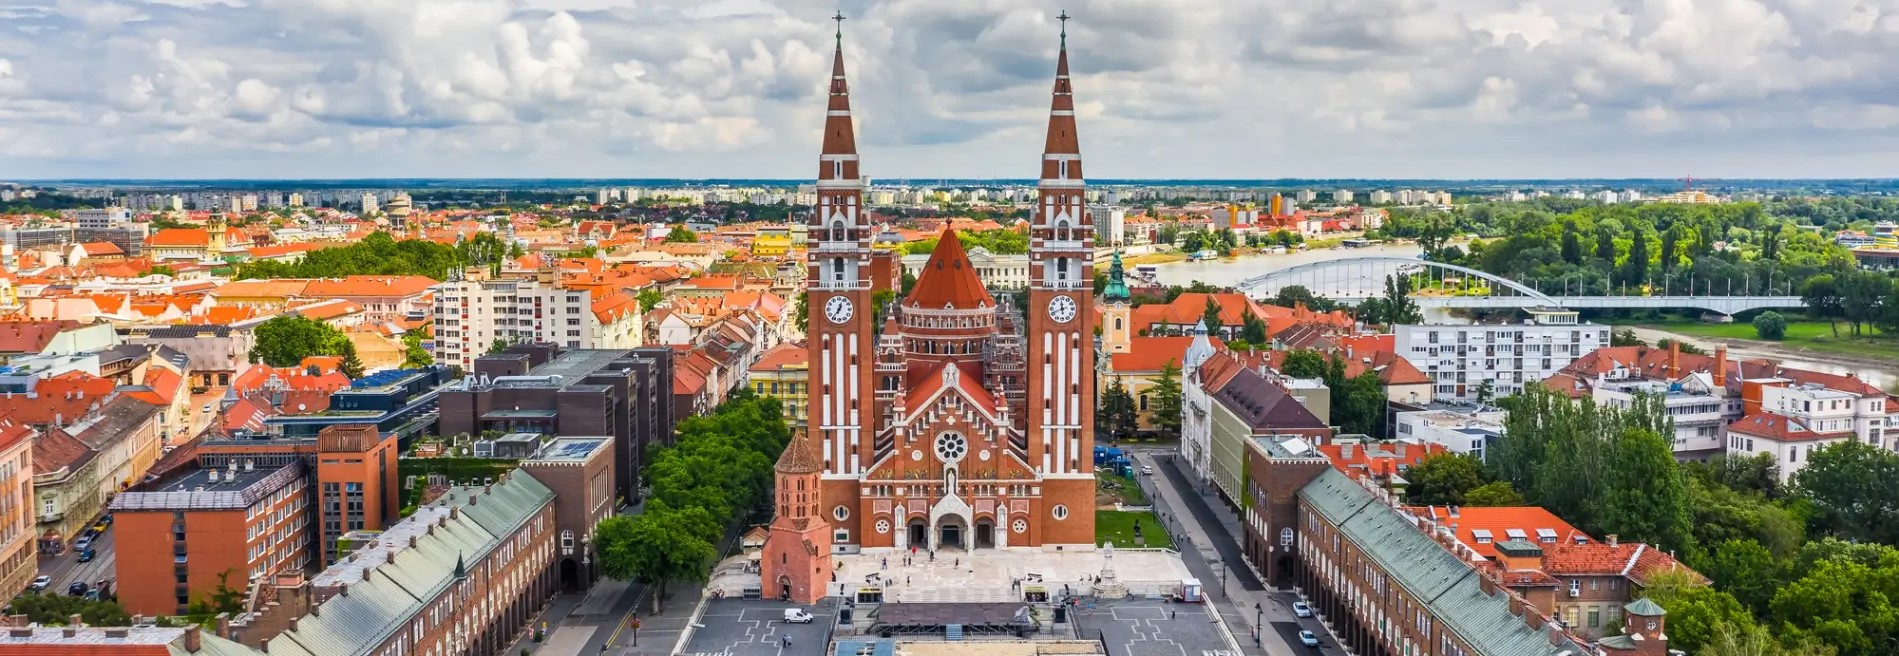
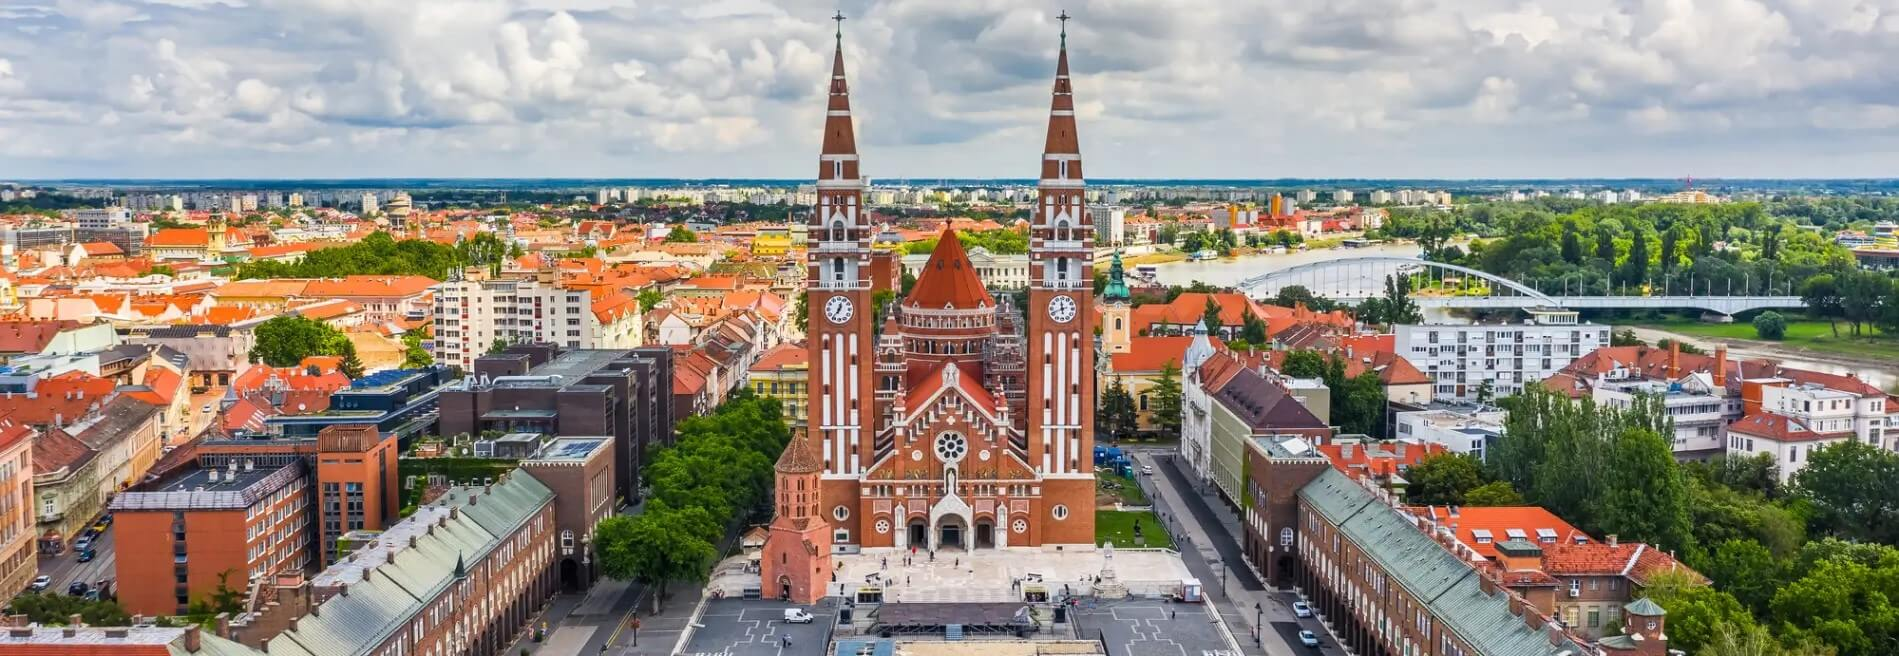
motorosturak kepek csokentese

diff --git a/motoros_turak/src/App.css b/motoros_turak/src/App.css
@@ -120,11 +120,13 @@ td{
   margin-left: 2vw;
   font-size:6vh;
   color: var(--hatter);
-  -webkit-text-stroke: 3px var(--feher);
+}
+.title h1{
+  text-shadow: 8px 1px var(--feher);
 }
 .title h4{
   color: var(--feher);
-  -webkit-text-stroke: 1px black;
+  text-shadow: 5px 1px black;
   margin-top: 7vh;
   font-size:6vh;
 }
